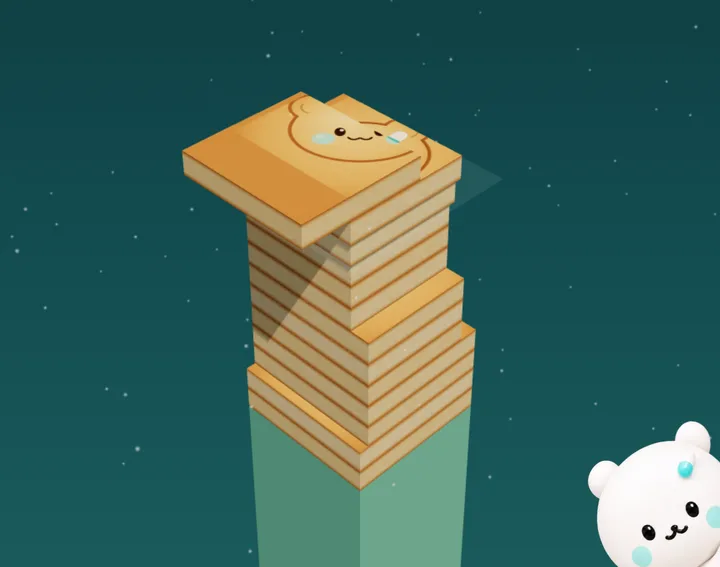
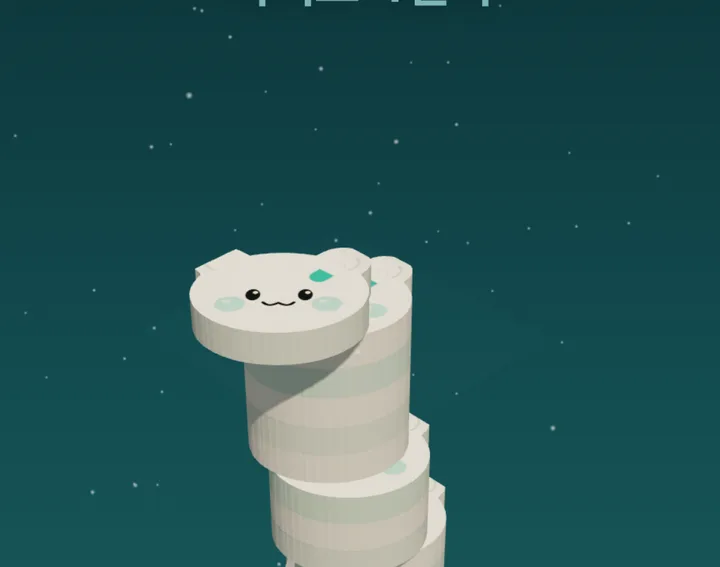
feat: 파미탑 — 빵 네모 대신 하얀 파미 얼굴 도무송으로 쌓기
- 층 모양: 파미 머리 칼선(타원 + 두 귀)을 그 층 사각 범위로 잘라 만듦, 어긋난 만큼 얼굴도 잘림
- 윗면: 하얀 파미 얼굴(민트 볼, 캡슐 핀), 옆면 하양과 옅은 민트 번갈아
- 카메라 조금 당김, 안내 문구 「파미」로, 아케이드 표지 갈음
- 칼선 자르기 테스트 1개 추가(전체 50개 통과)

diff --git a/src/pamitop/stackEngine.js b/src/pamitop/stackEngine.js
@@ -1,20 +1,23 @@
 /* 파미탑 — 쌓기 엔진.
  * 원작: Stack by Konrad Linkowski (https://github.com/KonradLinkowski/Stack), MIT License — 전문은 LICENSE-stack.txt.
- * 바꾼 것: 상자 색 → 파미 얼굴을 구운 빵(윗면 그림이 자리에 고정돼 잘리면 얼굴도 같이 잘림), 잘린 조각은 떨어짐,
+ * 바꾼 것: 네모 상자 → 하얀 파미 얼굴 도무송(머리 윤곽 칼선, 2026-11-26 사용자 「스퀘어가 아니라 도무송」 「파미 얼굴은 하얗게」).
+ *   층마다 칼선 다각형을 사각 범위로 잘라 만들고, 얼굴 그림은 그 층에 붙어 함께 움직인다(어긋난 만큼 얼굴도 잘림). 잘린 조각은 떨어짐,
  * 퍼펙트 연속이면 다시 넓어짐, 눈, 그림자, 터치(pointerdown), 컨테이너 크기에 맞춤, 시작 · 끝 콜백. */
 import * as THREE from "three";
 import { cutTile, grow, speedFor, FULL } from "./cut.js";
-import { drawFace, drawSide } from "./faceTexture.js";
+import { drawFace } from "./faceTexture.js";
+import { towerHead, clipRect } from "./pamiShape.js";
 
 const H = 16;                 // 한 층 두께
 const RANGE = 110;            // 움직이는 폭
-const SHADES = [["#C47A33", "#FBE6BC"], ["#B96F2B", "#F8E0B0"], ["#CC8540", "#FCEAC6"], ["#BF7631", "#F9E3B6"]];
+const SIDES = [0xf4f7f7, 0xe3eeed, 0xf4f7f7, 0xd8efeb];   // 옆면 — 하양과 옅은 민트를 번갈아(층이 보이게)
+const ROT = Math.PI * 0.75;   // 얼굴 위쪽이 화면 위로 — 그림과 칼선이 같은 값
 const OFFSET = new THREE.Vector3(-300, 290, -300);
 
-/* 윗면 그림을 세계 자리에 고정 — 층이 어디 있든 그 자리의 얼굴 조각이 보인다 */
-function placeTop(tex, t) {
-  tex.repeat.set(t.sx / FULL, t.sz / FULL);
-  tex.offset.set((t.cx - t.sx / 2 + FULL / 2) / FULL, 1 - (t.cz + t.sz / 2 + FULL / 2) / FULL);
+/* 층 윗면 그림 맞춤 — 칼선 점(층 가운데 기준) → 얼굴 그림. ox, oz 는 이 층 얼굴이 원래 자리에서 밀린 만큼 */
+function fitTop(tex, t) {
+  tex.repeat.set(1 / FULL, -1 / FULL);
+  tex.offset.set((t.cx - (t.ox || 0) + FULL / 2) / FULL, 1 - (t.cz - (t.oz || 0) + FULL / 2) / FULL);
 }
 
 export class PamiStack {
@@ -47,26 +50,23 @@ export class PamiStack {
     this.sun = sun; this.scene.add(sun); this.scene.add(sun.target);
 
     /* 윗면 그림은 한 장, 층마다 자리만 다르게 잘라 씀 */
-    this.faceTex = new THREE.CanvasTexture(drawFace(document.createElement("canvas")));
+    this.faceTex = new THREE.CanvasTexture(drawFace(document.createElement("canvas"), { rot: ROT, edge: false, white: true }));
     this.faceTex.colorSpace = THREE.SRGBColorSpace;
     this.faceTex.anisotropy = 4;
-    this.sideMats = SHADES.map(([a, b]) => {
-      const t = new THREE.CanvasTexture(drawSide(document.createElement("canvas"), a, b));
-      t.colorSpace = THREE.SRGBColorSpace;
-      return new THREE.MeshStandardMaterial({ map: t, roughness: 0.78 });
-    });
+    this.head = towerHead(ROT);
+    this.sideMats = SIDES.map((c) => new THREE.MeshStandardMaterial({ color: c, roughness: 0.55 }));
 
     /* 받침 — 첫 층 아래 긴 빵 기둥 */
-    this.base = this.makeTile({ cx: 0, cz: 0, sx: FULL, sz: FULL }, 0, 400);
+    this.base = this.makeTile({ cx: 0, cz: 0, sx: FULL, sz: FULL, ox: 0, oz: 0 }, 0, 400);
     const stand = new THREE.MeshStandardMaterial({ color: 0x7fd3c7, roughness: 0.55 });
-    this.base.material = this.base.material.map((m, i) => (i === 2 ? m : stand));
+    this.base.material = [this.base.material[0], stand];
     this.base.position.y = -200 + H / 2;
     this.scene.add(this.base);
 
     this.makeSnow();
     this.tiles = []; this.falling = []; this.effects = [];
     this.playing = false; this.moving = null;
-    this.prev = { cx: 0, cz: 0, sx: FULL, sz: FULL };
+    this.prev = { cx: 0, cz: 0, sx: FULL, sz: FULL, ox: 0, oz: 0 };
     this.index = 0; this.combo = 0;
 
     this.onDown = (e) => { e.preventDefault(); this.tap(); };
@@ -81,15 +81,25 @@ export class PamiStack {
     if (import.meta.env?.DEV) window.__pamiStack = this;   /* 개발 서버에서만 — 창이 가려져 그리기가 멈출 때 손으로 돌려 확인 */
   }
 
-  /* 한 층 메시: 옆면 4 · 윗면(얼굴 조각) · 아랫면 */
+  /* 한 층 메시: 파미 칼선을 이 층 사각 범위로 자른 모양. 윗면 = 얼굴 그림, 옆면 = 하양 · 옅은 민트 */
   makeTile(t, index, height = H) {
-    const geo = new THREE.BoxGeometry(t.sx, height, t.sz);
+    const ox = t.ox || 0, oz = t.oz || 0;
+    const poly = clipRect(this.head.map(([x, z]) => [x + ox, z + oz]), t.cx - t.sx / 2, t.cx + t.sx / 2, t.cz - t.sz / 2, t.cz + t.sz / 2);
+    let geo;
+    if (poly.length >= 3) {
+      const shape = new THREE.Shape(poly.map(([x, z]) => new THREE.Vector2(x - t.cx, z - t.cz)));
+      geo = new THREE.ExtrudeGeometry(shape, { depth: height, bevelEnabled: false, curveSegments: 1 });
+      geo.rotateX(Math.PI / 2);          // 모양 (x, y) → 바닥 (x, z), 윗면이 y = 0, 아래로 height
+      geo.translate(0, height / 2, 0);
+    } else {
+      geo = new THREE.BufferGeometry();
+    }
     const top = this.faceTex.clone();
     top.needsUpdate = true;
-    placeTop(top, t);
-    const topMat = new THREE.MeshStandardMaterial({ map: top, roughness: 0.62 });
+    fitTop(top, t);
+    const topMat = new THREE.MeshStandardMaterial({ map: top, roughness: 0.5 });
     const side = this.sideMats[index % this.sideMats.length];
-    const m = new THREE.Mesh(geo, [side, side, topMat, side, side, side]);
+    const m = new THREE.Mesh(geo, [topMat, side]);
     m.position.set(t.cx, index * H, t.cz);
     m.castShadow = true; m.receiveShadow = true;
     m.userData.topMat = topMat;
@@ -124,7 +134,7 @@ export class PamiStack {
     this.renderer.setSize(w, h, false);
     this.camera.aspect = w / h;
     this.camera.updateProjectionMatrix();
-    this.camScale = Math.min(1.9, Math.max(1, 0.95 / this.camera.aspect));
+    this.camScale = 0.78 * Math.min(1.9, Math.max(1, 0.95 / this.camera.aspect));   // 파미 칼선은 네모보다 작아 보여 조금 당김
     this.setWatch(this.watch.y, true);
   }
 
@@ -144,7 +154,7 @@ export class PamiStack {
     this.effects.forEach((e) => { this.scene.remove(e.mesh); e.mesh.geometry.dispose(); e.mesh.material.dispose(); });
     if (this.moving) { this.scene.remove(this.moving.mesh); this.disposeMesh(this.moving.mesh); }
     this.tiles = []; this.falling = []; this.effects = []; this.moving = null;
-    this.prev = { cx: 0, cz: 0, sx: FULL, sz: FULL };
+    this.prev = { cx: 0, cz: 0, sx: FULL, sz: FULL, ox: 0, oz: 0 };
     this.index = 0; this.combo = 0;
     this.setWatch(0);
     this.playing = true;
@@ -157,6 +167,7 @@ export class PamiStack {
     const axis = this.index % 2 === 0 ? "x" : "z";
     const t = { ...this.prev };
     t[axis === "x" ? "cx" : "cz"] = -RANGE;
+    t.ox = this.prev.ox + (t.cx - this.prev.cx); t.oz = this.prev.oz + (t.cz - this.prev.cz);   // 얼굴도 같이 밀려 있음
     const mesh = this.makeTile(t, this.index);
     this.scene.add(mesh);
     this.moving = { mesh, axis, dir: 1, t };
@@ -167,17 +178,18 @@ export class PamiStack {
     if (!this.playing || !this.moving) return;
     const { mesh } = this.moving;
     const r = cutTile(this.prev, { cx: mesh.position.x, cz: mesh.position.z });
+    const shift = { ox: this.prev.ox + (mesh.position.x - this.prev.cx), oz: this.prev.oz + (mesh.position.z - this.prev.cz) };
     this.scene.remove(mesh); this.disposeMesh(mesh); this.moving = null;
     if (r.miss) {
       /* 통째로 떨어뜨리고 끝 */
-      const t = { ...this.prev, cx: mesh.position.x, cz: mesh.position.z };
+      const t = { ...this.prev, cx: mesh.position.x, cz: mesh.position.z, ...shift };
       this.drop(t, this.index, 1);
       this.playing = false;
       const floors = this.index - 1;
       setTimeout(() => this.cb.onOver?.(floors), 1000);
       return;
     }
-    let placed = r.placed;
+    let placed = r.perfect ? { ...r.placed } : { ...r.placed, ...shift };
     if (r.perfect) {
       this.combo += 1;
       placed = grow(placed, this.combo);
@@ -185,7 +197,7 @@ export class PamiStack {
       this.cb.onPerfect?.(this.combo);
     } else {
       this.combo = 0;
-      this.drop(r.piece, this.index, 0);
+      this.drop({ ...r.piece, ...shift }, this.index, 0);
     }
     const tile = this.makeTile(placed, this.index);
     this.scene.add(tile); this.tiles.push(tile);
@@ -222,8 +234,6 @@ export class PamiStack {
         mesh.position[axis] = Math.sign(mesh.position[axis]) * RANGE;
         this.moving.dir *= -1;
       }
-      const tt = this.moving.t; tt.cx = mesh.position.x; tt.cz = mesh.position.z;
-      placeTop(mesh.userData.topMat.map, tt);
     }
     for (let i = this.falling.length - 1; i >= 0; i--) {
       const f = this.falling[i];

diff --git a/src/pamitop/faceTexture.js b/src/pamitop/faceTexture.js
@@ -27,15 +27,15 @@ function headPath(ctx, grow = 0) {
   }
 }
 
-export function drawFace(canvas, { rot = Math.PI * 0.75, edge = true } = {}) {
+export function drawFace(canvas, { rot = Math.PI * 0.75, edge = true, white = false } = {}) {
+  /* white: 파미탑 — 빵이 아니라 하얀 파미 얼굴 그대로(2026-11-26 사용자 「파미 얼굴은 하얗게」) */
   canvas.width = S; canvas.height = S;
   const ctx = canvas.getContext("2d");
   /* 빵 바탕 — 가운데 밝고 가장자리 진한 구움색 */
   const bg = ctx.createRadialGradient(S / 2, S / 2, S * 0.1, S / 2, S / 2, S * 0.72);
   bg.addColorStop(0, "#F3C77F"); bg.addColorStop(0.7, "#E2A65A"); bg.addColorStop(1, "#C98743");
-  ctx.fillStyle = bg; ctx.fillRect(0, 0, S, S);
-  speckle(ctx, 900, "#8A4F1E", 3);
-  speckle(ctx, 500, "#FFF1CF", 2.5);
+  ctx.fillStyle = white ? "#FFFFFF" : bg; ctx.fillRect(0, 0, S, S);
+  if (!white) { speckle(ctx, 900, "#8A4F1E", 3); speckle(ctx, 500, "#FFF1CF", 2.5); }
 
   ctx.save();
   ctx.translate(S / 2, S / 2);
@@ -43,13 +43,14 @@ export function drawFace(canvas, { rot = Math.PI * 0.75, edge = true } = {}) {
   ctx.translate(0, -0.02 * K);
 
   /* 틀에 눌린 홈(진한 테두리) → 볼록한 얼굴 */
-  headPath(ctx, 0.022); ctx.fillStyle = "#A8662B"; ctx.fill();
-  ctx.save(); ctx.shadowColor = "rgba(90,45,10,0.45)"; ctx.shadowBlur = 26; ctx.shadowOffsetY = 10;
+  if (!white) { headPath(ctx, 0.022); ctx.fillStyle = "#A8662B"; ctx.fill(); }
+  ctx.save(); if (!white) { ctx.shadowColor = "rgba(90,45,10,0.45)"; ctx.shadowBlur = 26; ctx.shadowOffsetY = 10; }
   headPath(ctx); const fg = ctx.createRadialGradient(-0.08 * K, -0.12 * K, 0.02 * K, 0, 0, 0.5 * K);
-  fg.addColorStop(0, "#FAD99A"); fg.addColorStop(0.65, "#EDB86C"); fg.addColorStop(1, "#D9984D");
+  if (white) { fg.addColorStop(0, "#FFFFFF"); fg.addColorStop(0.7, "#FBFCFC"); fg.addColorStop(1, "#E4EBEB"); }
+  else { fg.addColorStop(0, "#FAD99A"); fg.addColorStop(0.65, "#EDB86C"); fg.addColorStop(1, "#D9984D"); }
   ctx.fillStyle = fg; ctx.fill(); ctx.restore();
   /* 귀 안쪽 이음매 */
-  ctx.strokeStyle = "rgba(150,85,30,0.55)"; ctx.lineWidth = 0.012 * K;
+  ctx.strokeStyle = white ? "rgba(150,170,175,0.45)" : "rgba(150,85,30,0.55)"; ctx.lineWidth = 0.012 * K;
   for (const k of [-1, 1]) { const [x, y] = P(k * 0.27, 0.235); ctx.beginPath(); ctx.arc(x, y, 0.07 * K, Math.PI * (k < 0 ? 0.9 : 0.1) - 0.9, Math.PI * (k < 0 ? 0.9 : 0.1) + 0.9); ctx.stroke(); }
 
   /* 볼 — 민트 아이싱 */
@@ -64,14 +65,14 @@ export function drawFace(canvas, { rot = Math.PI * 0.75, edge = true } = {}) {
   /* 눈 — 진하게 구운 타원 + 반짝 */
   for (const k of [-1, 1]) {
     const [x, y] = P(k * 0.112, -0.03);
-    ctx.fillStyle = "#3B200D";
+    ctx.fillStyle = white ? "#1E2A30" : "#3B200D";
     ctx.beginPath(); ctx.ellipse(x, y, 0.039 * 0.84 * K, 0.039 * 1.15 * K, 0, 0, Math.PI * 2); ctx.fill();
     ctx.fillStyle = "#FFF6E2";
     ctx.beginPath(); ctx.arc(x + 0.01 * K, y - 0.018 * K, 0.0105 * K, 0, Math.PI * 2); ctx.fill();
   }
   /* ω 입 */
   const mouth = [[-0.066, -0.088], [-0.052, -0.106], [-0.03, -0.11], [-0.009, -0.099], [0, -0.09], [0.009, -0.099], [0.03, -0.11], [0.052, -0.106], [0.066, -0.088]].map(([x, y]) => P(x, y));
-  ctx.strokeStyle = "#3B200D"; ctx.lineWidth = 0.016 * K; ctx.lineCap = "round"; ctx.lineJoin = "round";
+  ctx.strokeStyle = white ? "#1E2A30" : "#3B200D"; ctx.lineWidth = 0.016 * K; ctx.lineCap = "round"; ctx.lineJoin = "round";
   ctx.beginPath(); ctx.moveTo(...mouth[0]);
   for (let i = 1; i < mouth.length - 1; i++) { const [x1, y1] = mouth[i], [x2, y2] = mouth[i + 1]; ctx.quadraticCurveTo(x1, y1, (x1 + x2) / 2, (y1 + y2) / 2); }
   ctx.lineTo(...mouth[mouth.length - 1]); ctx.stroke();
@@ -81,7 +82,7 @@ export function drawFace(canvas, { rot = Math.PI * 0.75, edge = true } = {}) {
     const [x, y] = P(0.2, 0.15);
     ctx.save(); ctx.translate(x, y); ctx.rotate(Math.atan2(-1.1, 1));
     const L = 0.1 * K, R = 0.043 * K;
-    ctx.shadowColor = "rgba(90,45,10,0.35)"; ctx.shadowBlur = 10; ctx.shadowOffsetY = 4;
+    ctx.shadowColor = white ? "rgba(40,70,75,0.25)" : "rgba(90,45,10,0.35)"; ctx.shadowBlur = 10; ctx.shadowOffsetY = 4;
     ctx.fillStyle = "#1DBFB0"; ctx.beginPath(); ctx.moveTo(0, -R); ctx.lineTo(-L / 2, -R); ctx.arc(-L / 2, 0, R, -Math.PI / 2, Math.PI / 2, true); ctx.lineTo(0, R); ctx.closePath(); ctx.fill();
     ctx.fillStyle = "#FFFFFF"; ctx.beginPath(); ctx.moveTo(0, -R); ctx.lineTo(L / 2, -R); ctx.arc(L / 2, 0, R, -Math.PI / 2, Math.PI / 2); ctx.lineTo(0, R); ctx.closePath(); ctx.fill();
     ctx.restore();

diff --git a/src/pamitop/pamiShape.js b/src/pamitop/pamiShape.js
@@ -1,0 +1,62 @@
+/* 파미 머리 윤곽(도무송 칼선) — 타원 + 두 귀. 비율은 faceTexture.js 와 같은 PS-OS 3D 월드 파미 v2 값.
+ * 파미탑 층은 이 윤곽을 사각 범위로 잘라 만든다(어긋난 만큼 얼굴도 같이 잘림). 화면 없는 순수 함수. */
+import { FULL } from "./cut.js";
+
+export function inHead(x, y) {
+  if ((x / 0.385) ** 2 + (y / 0.315) ** 2 <= 1) return true;
+  for (const k of [-1, 1]) if ((x - k * 0.27) ** 2 + (y - 0.235) ** 2 <= 0.125 ** 2) return true;
+  return false;
+}
+
+/* 머리 단위(가로 약 ±0.5) 윤곽 점 — 가운데서 바깥으로 훑는다 */
+export function headOutline(grow = 0, n = 160) {
+  const pts = [];
+  for (let i = 0; i < n; i++) {
+    const a = (i / n) * Math.PI * 2;
+    let r = 0.62;
+    while (r > 0 && !inHead(Math.cos(a) * r, Math.sin(a) * r)) r -= 0.002;
+    r += grow;
+    pts.push([Math.cos(a) * r, Math.sin(a) * r]);
+  }
+  return pts;
+}
+
+/* 탑 바닥 좌표(x, z)로 — 얼굴 그림(drawFace, rot)과 같은 돌림 · 같은 비율(K = 0.98)이라 칼선과 그림이 맞는다 */
+export function towerHead(rot) {
+  const c = Math.cos(rot), s = Math.sin(rot), k = 0.98 * FULL;
+  return headOutline().map(([hx, hy]) => {
+    const a = hx, b = -hy - 0.02;
+    return [(a * c - b * s) * k, (a * s + b * c) * k];
+  });
+}
+
+/* 다각형을 사각 범위로 자르기(Sutherland–Hodgman) */
+export function clipRect(poly, x0, x1, z0, z1) {
+  const edges = [
+    (p) => p[0] >= x0, (p) => p[0] <= x1, (p) => p[1] >= z0, (p) => p[1] <= z1,
+  ];
+  const cross = [
+    (a, b) => { const t = (x0 - a[0]) / (b[0] - a[0]); return [x0, a[1] + t * (b[1] - a[1])]; },
+    (a, b) => { const t = (x1 - a[0]) / (b[0] - a[0]); return [x1, a[1] + t * (b[1] - a[1])]; },
+    (a, b) => { const t = (z0 - a[1]) / (b[1] - a[1]); return [a[0] + t * (b[0] - a[0]), z0]; },
+    (a, b) => { const t = (z1 - a[1]) / (b[1] - a[1]); return [a[0] + t * (b[0] - a[0]), z1]; },
+  ];
+  let out = poly;
+  for (let e = 0; e < 4 && out.length; e++) {
+    const inp = out; out = [];
+    for (let i = 0; i < inp.length; i++) {
+      const a = inp[i], b = inp[(i + 1) % inp.length];
+      const ia = edges[e](a), ib = edges[e](b);
+      if (ia && ib) out.push(b);
+      else if (ia && !ib) out.push(cross[e](a, b));
+      else if (!ia && ib) { out.push(cross[e](a, b)); out.push(b); }
+    }
+  }
+  return out;
+}
+
+export function area(poly) {
+  let s = 0;
+  for (let i = 0; i < poly.length; i++) { const a = poly[i], b = poly[(i + 1) % poly.length]; s += a[0] * b[1] - b[0] * a[1]; }
+  return Math.abs(s) / 2;
+}

diff --git a/src/pamitop/PamiTopGame.jsx b/src/pamitop/PamiTopGame.jsx
@@ -4,7 +4,7 @@ import { stampsFor, STAMP_MAX, STAMP_EVERY } from "./cut.js";
 import pamiHi from "./pami-hi.webp";
 import pamiPeek from "./pami-peek.webp";
 
-/* 파미탑 — 화면을 눌러 파미빵을 높이 쌓는 한 판 게임. 3D 엔진(three.js)은 이 화면을 열 때만 받아 온다.
+/* 파미탑 — 화면을 눌러 하얀 파미 얼굴을 높이 쌓는 한 판 게임. 3D 엔진(three.js)은 이 화면을 열 때만 받아 온다.
  * 5층마다 스탬프 하나(최대 5). 스탬프는 직원이 봉투 겉에 찍는다 — 키오스크는 개수만 보여 준다. */
 const CSS = `
 .pb-stage{position:relative;min-height:440px;overflow:hidden;background:linear-gradient(180deg,#0B2C31 0%,#124A4E 55%,#1C5F5F 100%)}
@@ -89,7 +89,7 @@ export default function PamiTopGame({ onExit }) {
           <div className="pb-card">
             <img className="pb-pami" src={pamiHi} alt="" />
             <h2>파미탑</h2>
-            <p>움직이는 파미빵이 아래 빵과 겹칠 때 화면을 누르세요.<br />어긋난 만큼 잘려요. {STAMP_EVERY}층마다 스탬프 하나!</p>
+            <p>움직이는 파미가 아래 파미와 겹칠 때 화면을 누르세요.<br />어긋난 만큼 잘려요. {STAMP_EVERY}층마다 스탬프 하나!</p>
             <div className="pb-btns"><button type="button" className="pb-btn main" onClick={start}>시작하기</button></div>
           </div>
         )}

diff --git a/src/arcade/Arcade.jsx b/src/arcade/Arcade.jsx
@@ -6,7 +6,7 @@ import pamitopCover from "./pamitop.webp";
  * 표지 아래 짙은 띠에 이름 · 설명, 오른쪽 「플레이」(글씨가 표지를 가리지 않게). 카드 전체를 눌러도 시작. 게임은 한국어 전용이라 문구도 한국어만. */
 const GAMES = [
   { page: "pamibread", cover: tycoonCover, title: "파미빵 타이쿤", sub: "60초 동안 파미빵을 구워 팔아요", tag: "3개 팔 때마다 스탬프" },
-  { page: "pamitop", cover: pamitopCover, title: "파미탑", sub: "파미빵을 딱 맞춰 높이 쌓아요", tag: "5층마다 스탬프" },
+  { page: "pamitop", cover: pamitopCover, title: "파미탑", sub: "파미를 딱 맞춰 높이 쌓아요", tag: "5층마다 스탬프" },
 ];
 
 const CSS = `

diff --git a/src/pamitop/cut.js b/src/pamitop/cut.js
@@ -1,4 +1,4 @@
-/* 파미빵 쌓기 — 자르기 규칙(화면 없음). 원작: KonradLinkowski/Stack (MIT, LICENSE-stack.txt) 의 cutBox 를 순수 함수로 옮김.
+/* 파미탑 — 자르기 규칙(화면 없음). 원작: KonradLinkowski/Stack (MIT, LICENSE-stack.txt) 의 cutBox 를 순수 함수로 옮김.
  * prev: 아래 층 { cx, cz, sx, sz }, cur: 움직이던 층의 가운데 { cx, cz } (크기는 아래 층과 같음).
  * 한 층은 한 축으로만 움직이므로 잘린 조각도 한 축에서만 나온다. */
 export const FULL = 100;      // 첫 층 한 변
